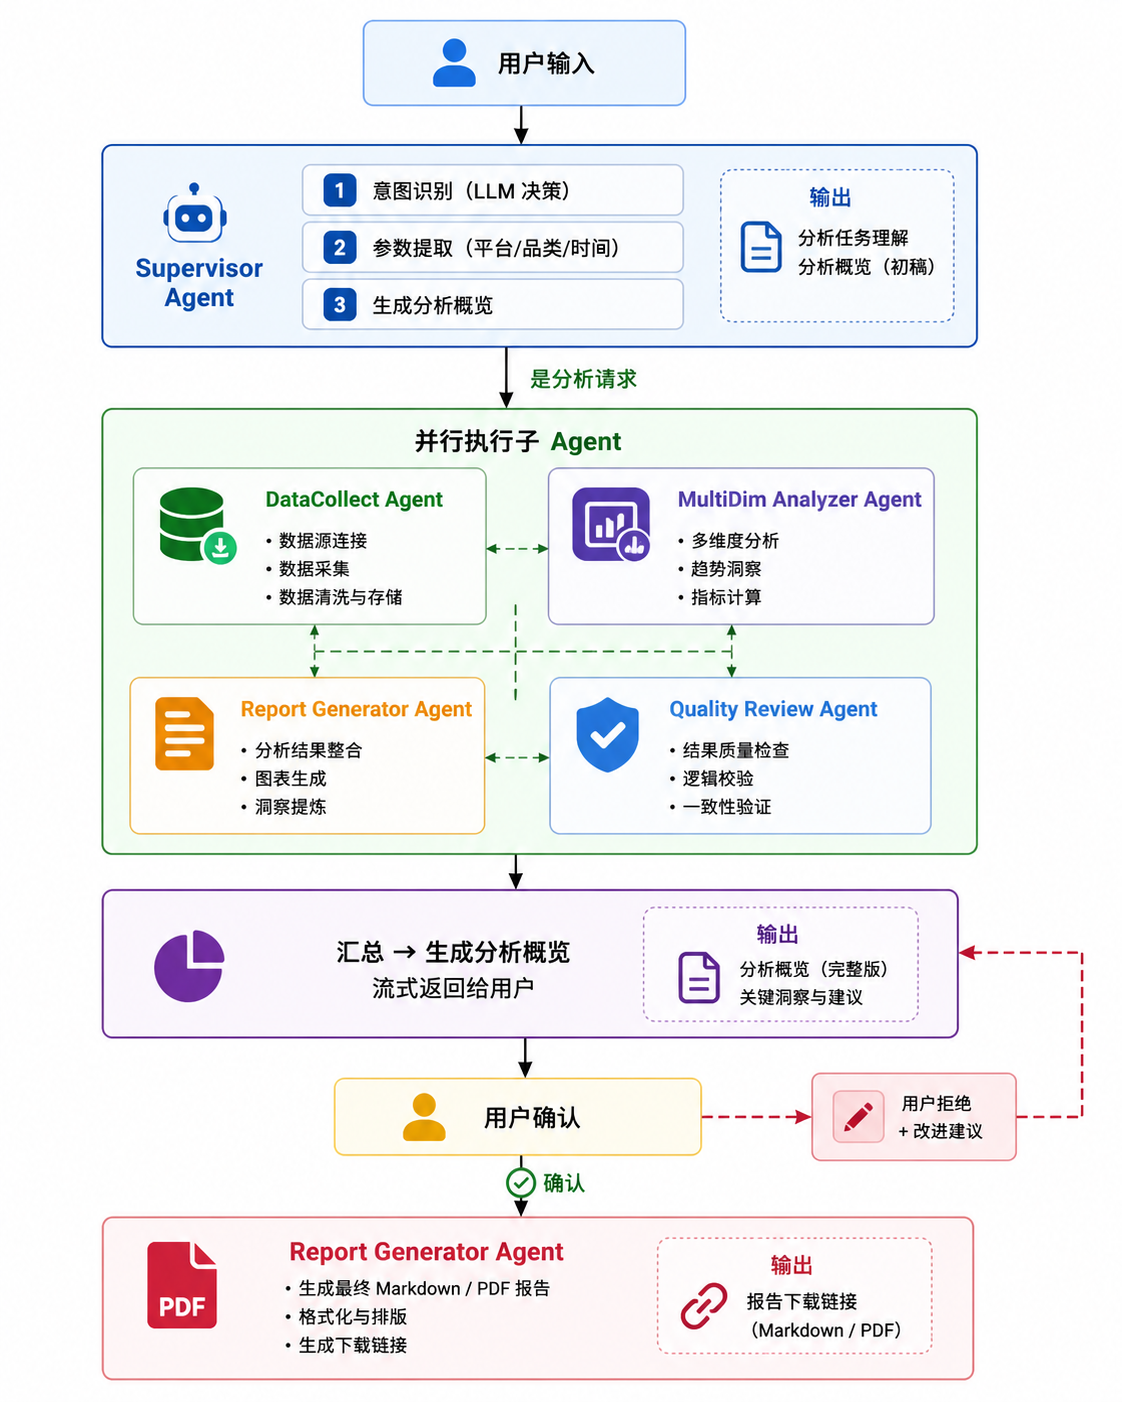
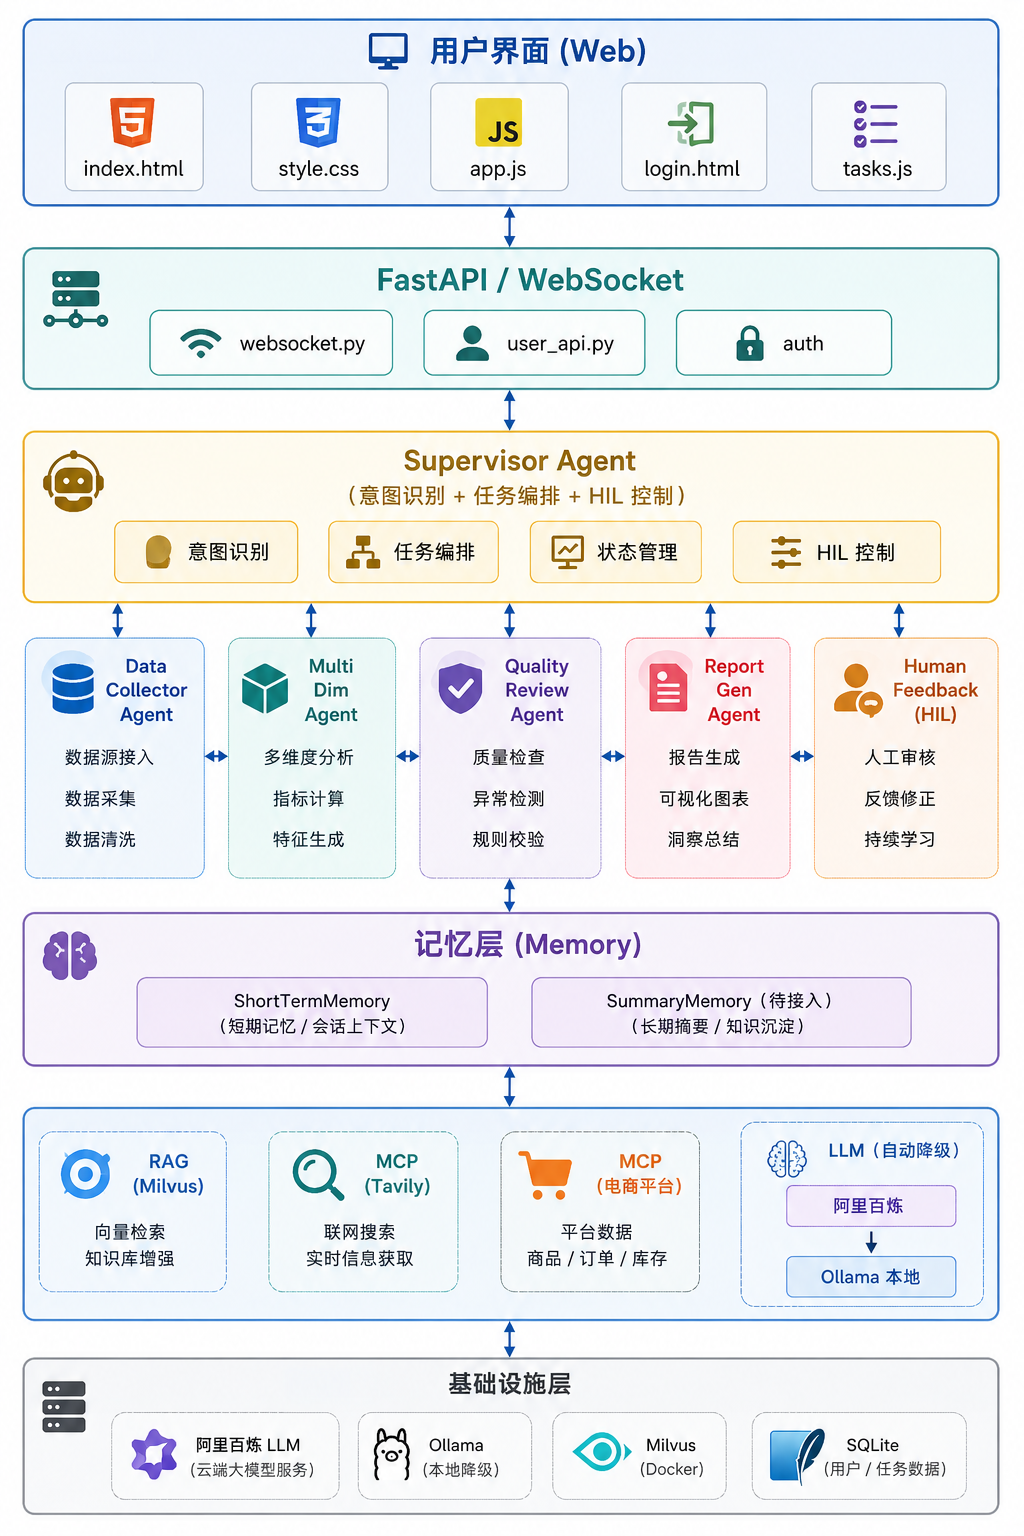
README更新

Changed region(s): [[0.0312, 0.0, 0.9688, 1.0], [0.6875, 0.5827, 0.75, 0.6134], [0.0, 0.8281, 0.0312, 0.8588]]

diff --git a/README.md b/README.md
@@ -15,8 +15,11 @@
 | **报告生成** | 固定模板的 Markdown 报告，支持 PDF 导出 |
 | **Human-in-the-Loop** | 生成概览 → 用户确认/反馈 → 迭代改进 → 输出终稿 |
 | **流式输出** | LLM 推理结果逐 token 推送到前端，实时展示 |
-| **记忆管理** | 短期记忆（滑动窗口）+ 摘要记忆（LLM 自动总结） |
-| **暗色模式** | 前端支持主题切换 |
+| **记忆管理** | 短期记忆（滑动窗口 20 轮）+ 摘要记忆（LLM 自动总结，待启用） |
+| **用户认证** | 注册/登录 + JWT 令牌，分析任务与用户绑定 |
+| **任务管理** | 任务列表、状态跟踪、报告下载、删除 |
+| **LLM 降级** | 阿里百炼额度不足时自动降级到本地 Ollama 模型 |
+| **暗色模式** | 前端支持毛玻璃 UI + 主题切换 |
 
 ---
 
@@ -24,50 +27,11 @@
 
 ### 系统架构
 
-```
-┌────────────────────────────────────────────────────────────┐
-│                        用户界面 (Web)                       │
-├────────────────────────────────────────────────────────────┤
-│                     FastAPI / WebSocket                    │
-├────────────────────────────────────────────────────────────┤
-│                     Supervisor Agent                       │
-│              (意图识别 + 任务编排 + HIL 控制)                │
-├───────────┬───────────┬───────────┬────────────────────────┤
-│ Data      │ MultiDim  │ Quality   │ Report                 │
-│ Collector │ Analyzer  │ Review    │ Generator              │
-│ Agent     │ Agent     │ Agent     │ Agent                  │
-├───────────┴───────────┴───────────┴────────────────────────┤
-│                      记忆层 (Memory)                        │
-├───────────┬───────────┬───────────┬────────────────────────┤
-│ RAG       │ MCP       │ MCP       │ LLM                    │
-│ (Milvus)  │ (Tavily)  │ (电商平台) │ (兜底)                 │
-├───────────┴───────────┴───────────┴────────────────────────┤
-│                    基础设施层                                │
-│       阿里百炼 LLM · Milvus (Docker) · 阿里云 OSS(可选)     │
-└────────────────────────────────────────────────────────────┘
-```
+![架构图](png/架构图.png)
 
 ### Agent 工作流
 
-```
-[用户输入]
-    │
-intent_recognition ──normal_chat──→ [LLM 直接回复]
-    │ product_analysis
-data_collector (RAG → MCP → LLM 兜底)
-    │
-multi_dim_analyzer (12 维度并行 asyncio.gather)
-    │
-quality_review (完整性/准确性/一致性审核)
-    │
-overview_generator (生成分析概览)
-    │
-human_feedback ←── 用户确认/拒绝/终止
-    │ confirmed          │ rejected
-final_report_generator    multi_dim_analyzer (迭代)
-    │
-[END]
-```
+![业务流程图](png/业务流程.png)
 
 ---
 
@@ -77,8 +41,9 @@ final_report_generator    multi_dim_analyzer (迭代)
 
 - Python >= 3.11
 - Milvus（可选，Docker 部署）
-- 阿里百炼 API Key（必填）
+- 阿里百炼 API Key（可选，有 Ollama 时可降级运行）
 - Tavily API Key（可选，推荐）
+- Ollama（可选，阿里百炼降级方案）
 
 ### 安装
 
@@ -91,16 +56,27 @@ python -m venv .venv && source .venv/bin/activate
 
 # 3. 安装依赖
 pip install -r requirements.txt
-# 或：pip install fastapi uvicorn openai langgraph pymilvus markdown weasyprint tavily python-dotenv pydantic-settings jinja2 aiofiles
 
 # 4. 配置环境变量
 cp .env.example .env
-# 编辑 .env，填入 DASHSCOPE_API_KEY
+# 编辑 .env，填入必要的 API Key
 ```
 
 ### 启动
 
+**方式一：阿里百炼（主后端）**
 ```bash
+# 确保 .env 中已配置 DASHSCOPE_API_KEY
+uvicorn app.main:app --host 0.0.0.0 --port 8000 --reload
+```
+
+**方式二：仅使用本地 Ollama（无需 API Key）**
+```bash
+# 提前启动 Ollama 并拉取模型
+ollama pull qwen3:8b
+ollama pull nomic-embed-text
+
+# 修改 .env 清空 DASHSCOPE_API_KEY 即可触发降级
 uvicorn app.main:app --host 0.0.0.0 --port 8000 --reload
 ```
 
@@ -113,7 +89,7 @@ uvicorn app.main:app --host 0.0.0.0 --port 8000 --reload
 ### 环境变量（`.env`）
 
 ```bash
-# === 阿里百炼（必填）===
+# === 阿里百炼（主后端，与 Ollama 二选一或共存）===
 DASHSCOPE_API_KEY=sk-xxxxxxxxxxxx
 DASHSCOPE_BASE_URL=https://dashscope.aliyuncs.com/compatible-mode/v1
 
@@ -124,6 +100,16 @@ TAVILY_API_KEY=tvly-xxxxxxxxxxxx
 MILVUS_HOST=localhost
 MILVUS_PORT=19530
 
+# === Ollama 本地模型（降级方案）===
+# 当阿里百炼额度不足或未配置时自动降级
+# OLLAMA_BASE_URL=http://localhost:11434/v1      # 默认值
+# OLLAMA_MODEL=qwen3:8b                          # 对话模型
+# OLLAMA_EMBEDDING_MODEL=nomic-embed-text        # 向量模型
+
+# === 用户认证 / JWT ===
+JWT_SECRET_KEY=your-secret-key-here              # 生产环境务必修改
+JWT_EXPIRE_HOURS=24
+
 # === 服务配置 ===
 APP_HOST=0.0.0.0
 APP_PORT=8000
@@ -131,17 +117,35 @@ APP_PORT=8000
 
 ### LLM 模型配置（`app/config.py`）
 
-| 用途 | 默认模型 | 说明 |
-|------|----------|------|
-| 意图识别 | `qwen-plus` | 快速、低成本 |
-| 数据分析 | `qwen-max` | 推理能力强 |
-| 报告生成 | `qwen-max` | 长文本生成 |
-| 文本向量化 | `text-embedding-v3` | Embedding |
-| 摘要记忆 | `qwen-plus` | 中等推理任务 |
+| 用途 | 阿里百炼（默认） | Ollama（降级） |
+|------|------------------|----------------|
+| 意图识别 | `qwen-plus` | `qwen3:8b` |
+| 数据分析 | `qwen-max` | `qwen3:8b` |
+| 报告生成 | `qwen-max` | `qwen3:8b` |
+| 文本向量化 | `text-embedding-v3` | `nomic-embed-text` |
+| 摘要记忆 | `qwen-plus` | `qwen3:8b` |
+
+### LLM 降级机制
+
+当阿里百炼返回额度不足（HTTP 402/429）错误时，客户端自动切换为 Ollama 本地模型：
+
+```
+阿里百炼 ──正常──→ 使用云端付费模型
+     │ 额度不足
+     └──────→ Ollama 本地模型（自动降级，后续请求不再重试百炼）
+```
+
+切换后日志会输出警告 `阿里百炼额度不足，降级到本地 Ollama 模型`，所有后续请求（对话、流式、向量化）均走 Ollama。
 
 ---
 
 ## 使用指南
+
+### 用户认证
+
+首次使用需注册账号，登录后分析任务会自动绑定到当前用户，可在右侧"我的任务"面板查看历史任务和下载报告。
+
+未登录用户只能进行普通对话，无法发起商品分析。
 
 ### 分析商品
 
@@ -160,8 +164,8 @@ APP_PORT=8000
 2. **意图识别** → 系统自动判断是否为分析请求
 3. **数据采集** → 从 RAG、Tavily、LLM 多渠道采集
 4. **并行分析** → 12 维度同时分析（侧边栏实时显示进度）
-5. **概览确认** → 侧边栏展示分析概览
-6. **确认/反馈** → 确认则生成报告，拒绝可输入改进建议
+5. **概览确认** → 侧边栏展示分析概览（Flexbox 布局，按钮始终可见）
+6. **确认/反馈** → 确认则生成报告，拒绝可输入改进建议（最多 3 轮迭代）
 7. **下载报告** → Markdown / PDF 格式下载
 
 ### WebSocket 协议
@@ -172,13 +176,15 @@ APP_PORT=8000
 {"type": "decision", "action": "confirm|reject|terminate", "feedback": "..."}
 
 // 服务端 → 客户端
-{"type": "token", "content": "正在..."}           // 流式 token
-{"type": "done", "intent": "product_analysis"}   // 流式结束
-{"type": "status", "content": "正在采集..."}      // 状态提示
-{"type": "overview", "data": {...}}              // 分析概览
-{"type": "report_ready", "markdown_url": "...", "pdf_url": "..."}  // 报告就绪
-{"type": "error", "content": "..."}              // 错误
-{"type": "terminated", "content": "..."}         // 终止
+{"type": "token", "content": "正在..."}              // 流式 token
+{"type": "done", "intent": "product_analysis"}      // 流式结束
+{"type": "status", "content": "正在采集..."}         // 状态提示
+{"type": "overview", "data": {...}}                 // 分析概览
+{"type": "report_ready", "url": "..."}              // 报告就绪
+{"type": "task_status", "task_id": "...", ...}      // 任务状态更新
+{"type": "task_list", "tasks": [...]}               // 任务列表
+{"type": "error", "content": "..."}                 // 错误
+{"type": "terminated", "content": "..."}            // 终止
 ```
 
 ---
@@ -188,62 +194,75 @@ APP_PORT=8000
 ```
 cross-agent/
 ├── app/
-│   ├── main.py              # FastAPI 入口 + 静态文件服务
-│   ├── config.py            # 全局配置（环境变量加载）
-│   ├── logger.py            # 统一日志配置
+│   ├── main.py               # FastAPI 入口 + 静态文件服务
+│   ├── config.py             # 全局配置（环境变量加载）
+│   ├── logger.py             # 统一日志配置
 │   │
-│   ├── models/              # 数据模型
-│   │   ├── enums.py         # 平台/维度/时间/状态 枚举
-│   │   ├── schemas.py       # Pydantic 模型（Product, AnalysisParams 等）
-│   │   └── state.py         # AgentState TypedDict
+│   ├── auth/                 # 用户认证
+│   │   └── __init__.py       # JWT 签发/验证 · bcrypt 密码哈希 · 注册/登录
 │   │
-│   ├── llm/                 # LLM 客户端
-│   │   └── client.py        # 阿里百炼封装（chat/stream/embed）
+│   ├── models/               # 数据模型
+│   │   ├── enums.py          # 平台/维度/时间/状态 枚举
+│   │   ├── schemas.py        # Pydantic 模型（Product, AnalysisParams 等）
+│   │   └── state.py          # AgentState TypedDict
 │   │
-│   ├── memory/              # 记忆系统
-│   │   ├── short_term.py    # 短期记忆（滑动窗口）
-│   │   └── summary_memory.py# 摘要记忆（LLM 自动总结）
+│   ├── llm/                  # LLM 客户端（自动降级）
+│   │   └── client.py         # LLMClient：统一 chat/stream/embed，百炼→Ollama 降级
 │   │
-│   ├── mcp/                 # 数据采集层
-│   │   ├── base.py          # MCP 基类 + ProductResult 数据模型
-│   │   ├── tavily.py        # Tavily 网络检索 + LLM 兜底
-│   │   └── factory.py       # 工厂模式，并行采集
+│   ├── memory/               # 记忆系统
+│   │   ├── short_term.py     # 短期记忆（滑动窗口 20 轮）
+│   │   └── summary_memory.py # 摘要记忆（LLM 自动总结，待接入）
 │   │
-│   ├── rag/                 # RAG 检索
-│   │   ├── milvus_client.py # Milvus 连接/建集合/检索
-│   │   ├── embedding.py     # 文本向量化
-│   │   └── hybrid_search.py # Query Rewrite → 向量检索
+│   ├── mcp/                  # 数据采集层
+│   │   ├── base.py           # MCP 基类 + ProductResult 数据模型
+│   │   ├── tavily.py         # Tavily 网络检索 + LLM 兜底
+│   │   └── factory.py        # 工厂模式，并行采集
 │   │
-│   ├── agent/               # Agent 核心
-│   │   ├── prompts.py       # 所有 LLM Prompt 模板
-│   │   ├── graph.py         # LangGraph 图编排
-│   │   └── nodes/           # 7 个 Agent 节点
+│   ├── rag/                  # RAG 检索
+│   │   ├── milvus_client.py  # Milvus 连接/建集合/检索
+│   │   ├── embedding.py      # 文本向量化
+│   │   └── hybrid_search.py  # Query Rewrite → 向量检索
+│   │
+│   ├── agent/                # Agent 核心
+│   │   ├── prompts.py        # 所有 LLM Prompt 模板
+│   │   ├── graph.py          # LangGraph 图编排
+│   │   └── nodes/            # 7 个 Agent 节点
 │   │       ├── intent_recognition.py
 │   │       ├── data_collector.py
-│   │       ├── analyzer.py       # 12 维并行分析
+│   │       ├── analyzer.py        # 12 维并行分析
 │   │       ├── quality_review.py
 │   │       ├── overview_generator.py
 │   │       ├── report_generator.py
 │   │       └── human_feedback.py
 │   │
-│   ├── api/                 # API 端点
-│   │   └── websocket.py     # WebSocket + REST
+│   ├── api/                  # API 端点
+│   │   ├── websocket.py      # WebSocket 实时通信
+│   │   └── user_api.py       # 用户 REST API（注册/登录/任务 CRUD）
 │   │
-│   └── report/              # 报告生成
-│       └── generator.py     # Markdown/PDF 生成
+│   ├── task/                 # 任务管理
+│   │   └── manager.py        # SQLite 任务 CRUD
+│   │
+│   └── report/               # 报告生成
+│       └── generator.py      # Markdown/PDF 生成
 │
-├── static/                  # 前端静态文件
-│   ├── index.html           # 主页面
-│   ├── style.css            # 样式（毛玻璃 + 暗色模式）
-│   └── app.js               # WebSocket 客户端
+├── static/                   # 前端静态文件
+│   ├── index.html            # 主页面
+│   ├── login.html            # 登录/注册页
+│   ├── style.css             # 样式（毛玻璃 + 暗色模式 + 响应式）
+│   ├── app.js                # WebSocket 客户端
+│   └── tasks.js              # 任务列表组件 + 认证 UI
 │
 ├── docs/
-│   ├── 技术方案文档.md       # 完整技术设计
-│   └── 需求优化计划.md       # 后续优化路线图
+│   ├── 技术方案文档.md        # 完整技术设计
+│   └── 需求优化计划.md        # 后续优化路线图
 │
-├── reports/                 # 报告输出目录（自动生成）
-├── .env.example             # 环境变量模板
-├── pyproject.toml           # 依赖管理
+├── data/                     # SQLite 数据库（自动生成）
+│   ├── auth.db               # 用户认证库
+│   └── tasks.db              # 任务管理库
+│
+├── reports/                  # 报告输出目录（自动生成）
+├── .env.example              # 环境变量模板
+├── pyproject.toml            # 依赖管理
 └── README.md
 ```
 
@@ -256,16 +275,18 @@ cross-agent/
 | fastapi | >=0.111.0 | Web 框架 |
 | uvicorn | >=0.29.0 | ASGI 服务器 |
 | websockets | >=12.0 | WebSocket 支持 |
-| openai | >=1.30.0 | 阿里百炼 LLM 客户端 |
+| openai | >=1.30.0 | LLM 客户端（百炼 + Ollama OpenAI 兼容 API） |
+| httpx | — | Ollama 原生 API 调用（transitive） |
 | langgraph | >=0.2.0 | Agent 图编排 |
 | langchain | >=0.3.0 | LangChain 生态 |
 | pymilvus | >=2.4.0 | Milvus 向量数据库 |
 | tavily | >=0.3.0 | 网络搜索 |
 | sentence-transformers | >=3.0.0 | 文本向量化（可选） |
-| markdown | >=3.6 | Markdown → HTML 转换 |
 | weasyprint | >=62.0 | HTML → PDF 转换 |
 | pydantic-settings | >=2.2.0 | 环境变量加载 |
-| python-dotenv | >=1.0.0 | .env 文件加载 |
+| aiofiles | >=23.0.0 | 异步文件操作 |
+| bcrypt | >=4.1.0 | 密码哈希 |
+| pyjwt | >=2.8.0 | JWT 令牌 |
 
 ---
 
@@ -275,7 +296,7 @@ cross-agent/
 |------|------|------|
 | **P0** | 项目骨架 + 配置管理 | ✅ |
 | **P0** | 数据模型定义 | ✅ |
-| **P0** | LLM 客户端（流式） | ✅ |
+| **P0** | LLM 客户端（流式 + 降级） | ✅ |
 | **P0** | LangGraph 图 + Supervisor 编排 | ✅ |
 | **P0** | 数据采集（RAG + MCP + LLM） | ✅ |
 | **P0** | 12 维度并行分析 | ✅ |
@@ -284,13 +305,16 @@ cross-agent/
 | **P0** | 最终报告生成 | ✅ |
 | **P0** | WebSocket 实时通信 | ✅ |
 | **P0** | 前端 UI（毛玻璃 + 暗色模式） | ✅ |
-| **P1** | 记忆系统（短期 + 摘要） | ✅ |
+| **P1** | 记忆系统（短期记忆已接入） | ✅ |
 | **P1** | Markdown/PDF 报告导出 | ✅ |
+| **P1** | 用户认证 + 任务管理 | ✅ |
+| **P1** | LLM 降级（百炼 → Ollama） | ✅ |
+| **P2** | 摘要记忆接入 | ⬜ |
 | **P2** | Milvus 初始化 + 数据导入 | ⬜ |
 | **P2** | 各电商平台 MCP 对接 | ⬜ |
 | **P2** | 报告嵌入图片（图表 + 商品图） | ⬜ |
 | **P2** | OSS 文件上传 | ⬜ |
-| **P3** | 长期记忆（SQLite 持久化） | ⬜ |
+| **P3** | 跨会话长期记忆 | ⬜ |
 | **P3** | 测试覆盖 | ⬜ |
 
 ---